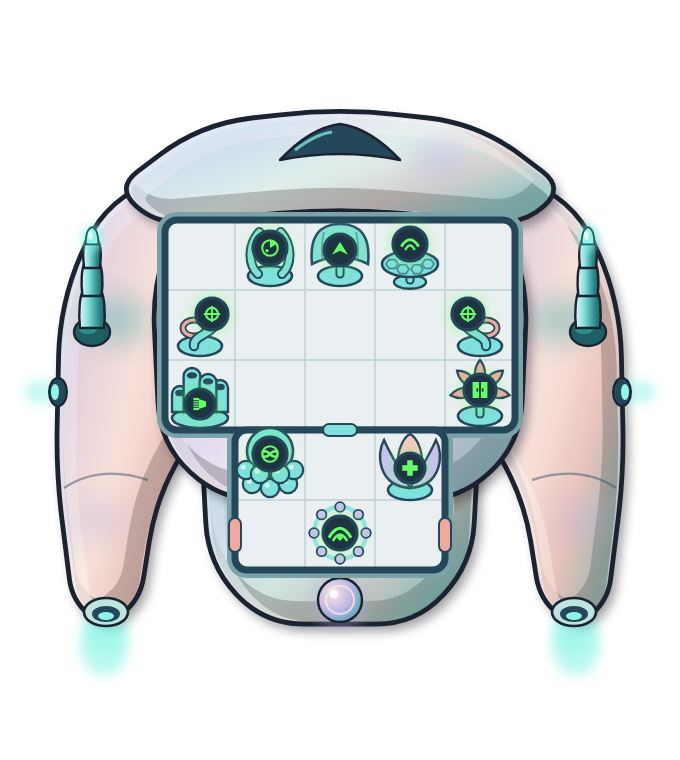
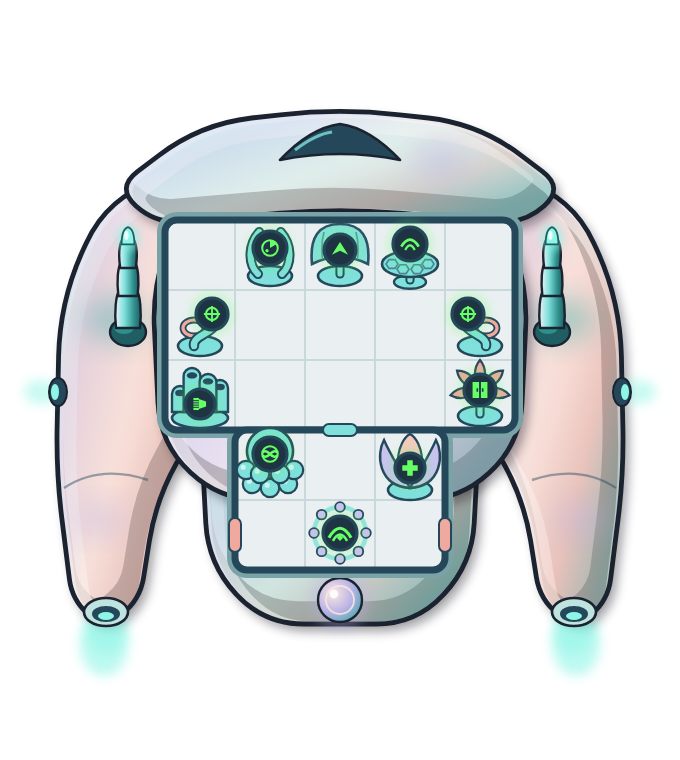
Move the Tentauri scout's weapon mounts onto the lit middle of the flank plates
heromedel noticed the starboard Defense Laser sat on the shaded outer edge of
its flank plate while the port one sat on the lit face. Both mounts move in
18 px (x 46/294 to 64/276), onto the flat lit middle of each plate, still
clear of the forward room. Only the mount points changed; the hull art and
floor are the same.

Claude-Session: https://claude.ai/code/session_01WZGEuQ1NEBVidT9MSQSZ2z

Changed region(s): [[0.7721, 0.2724, 0.8956, 0.4539], [0.0926, 0.2724, 0.2162, 0.4539]]

diff --git a/docs/art/tentauri/scout/tools/tentauri.py b/docs/art/tentauri/scout/tools/tentauri.py
@@ -583,8 +583,9 @@ def outrigger(title="Tentauri scout hull", spread=1.0):
             shadow=4)
     h.raw("canopy", {5: single_canopy(CX, 66, 30)})
     h.raw("supershield", {5: supershield_organ(CX, 300)})
-    h.mount("mount-defense-laser-a", CX - 124 * k, 160, "Tentauri Defense Laser A", "left")
-    h.mount("mount-defense-laser-b", CX + 124 * k, 160, "Tentauri Defense Laser B", "right")
+    # on the lit middle of each flank plate, clear of the shaded outer edge (moved in from 124 on 2026-10-25)
+    h.mount("mount-defense-laser-a", CX - 106 * k, 160, "Tentauri Defense Laser A", "left")
+    h.mount("mount-defense-laser-b", CX + 106 * k, 160, "Tentauri Defense Laser B", "right")
     return h
 
 
